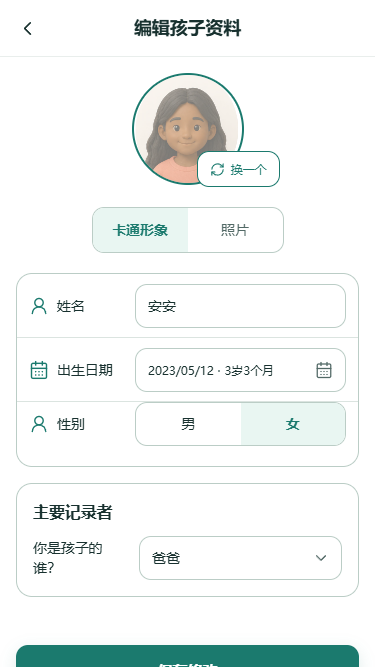
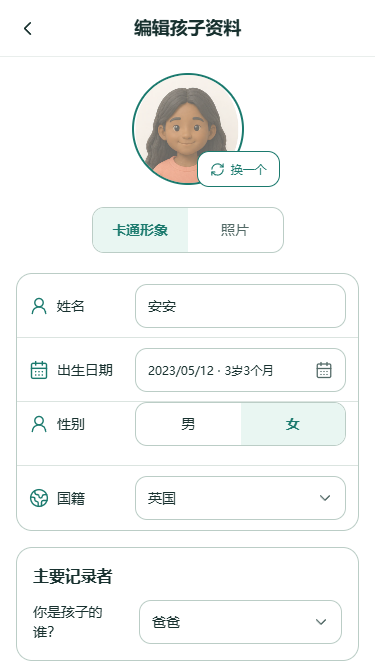
feat: add child nationality selection

diff --git a/src/pages/Family/EditFamilyMemberPage.tsx b/src/pages/Family/EditFamilyMemberPage.tsx
@@ -1,5 +1,5 @@
 import { FormEvent, useEffect, useMemo, useRef, useState } from 'react'
-import { CalendarDays, ChevronDown, UserRound } from 'lucide-react'
+import { CalendarDays, ChevronDown, Globe2, UserRound } from 'lucide-react'
 import { useBlocker, useNavigate, useParams } from 'react-router-dom'
 import { Button, WebPageHeader } from '../../components/common'
 import { FamilyAvatarEditor, type FamilyAvatarMode } from '../../components/family/FamilyAvatarEditor'
@@ -12,6 +12,7 @@ import type { ChildRecorderRelationship, FamilyMemberApiDto, ProfileGender } fro
 import { childBirthdayErrorMessage, formatChildProfileAge, getChildBirthdayBounds, isChildProfileMember, validateChildBirthday } from '../../utils/childProfile'
 import { createClayAvatarConfig, parseClayAvatar, remapClayAvatarRole, serializeClayAvatar, type ClayAvatarConfig } from '../../utils/clayAvatar'
 import { parseVirtualAvatarId } from '../../utils/virtualAvatar'
+import { NATIONALITY_CODES } from '../../../shared/nationality-policy.mjs'
 
 type ChildGender = Extract<ProfileGender, 'male' | 'female'> | ''
 type SaveState = 'idle' | 'saving' | 'saved'
@@ -22,6 +23,7 @@ interface ChildEditorDraft {
   birthday: string
   gender: ChildGender
   name: string
+  nationality: string
   primaryRecorderRelationship: ChildRecorderRelationship | ''
   photoAvatar: string
 }
@@ -37,6 +39,11 @@ const recorderOptions = [
   ['other', '其他']
 ] as const satisfies readonly (readonly [ChildRecorderRelationship, string])[]
 const recorderValues = new Set<ChildRecorderRelationship>(recorderOptions.map(([value]) => value))
+const nationalityDisplayNames = new Intl.DisplayNames(['zh-CN'], { type: 'region' })
+const nationalityOptions = ['CN', ...NATIONALITY_CODES.filter((code) => code !== 'CN')]
+  .map((code) => [code, nationalityDisplayNames.of(code) ?? code] as const)
+  .concat([['OTHER', '其他'] as const])
+const nationalityValues = new Set(nationalityOptions.map(([value]) => value))
 const rowClass = 'grid min-h-[64px] grid-cols-[94px_minmax(0,1fr)] items-center gap-3 border-b border-border px-3 last:border-b-0 sm:grid-cols-[104px_minmax(0,1fr)] sm:px-4'
 const controlClass = 'h-11 min-w-0 w-full rounded-control border border-border-calm bg-surface px-3 text-sm text-heading outline-none transition focus:border-primary focus:ring-2 focus:ring-primary/15 disabled:bg-surface-muted disabled:text-text-secondary'
 
@@ -59,6 +66,7 @@ function makeDraft(member: FamilyMemberApiDto): ChildEditorDraft {
     birthday,
     gender,
     name: member.name,
+    nationality: member.nationality && nationalityValues.has(member.nationality) ? member.nationality : '',
     primaryRecorderRelationship: member.primaryRecorderRelationship && recorderValues.has(member.primaryRecorderRelationship) ? member.primaryRecorderRelationship : '',
     photoAvatar: isPhoto ? avatar : ''
   }
@@ -73,6 +81,7 @@ function draftFingerprint(draft: ChildEditorDraft) {
 
 function savedDataMatches(member: FamilyMemberApiDto, draft: ChildEditorDraft) {
   return member.relationship === 'child'
+    && (member.nationality ?? '') === draft.nationality
     && (member.primaryRecorderRelationship ?? '') === draft.primaryRecorderRelationship
 }
 
@@ -198,6 +207,7 @@ export function EditFamilyMemberPage() {
         name: draft.name.trim(),
         relationship: 'child',
         birthday: draft.birthday || null,
+        nationality: draft.nationality || null,
         gender: draft.gender || null,
         avatar: draft.avatarMode === 'photo' ? draft.photoAvatar : serializeClayAvatar(previewConfig),
         primaryRecorderRelationship: draft.primaryRecorderRelationship || null
@@ -296,6 +306,22 @@ export function EditFamilyMemberPage() {
               >{label}</button>)}
             </div>
           </fieldset>
+          <label className={rowClass}>
+            <span className="flex items-center gap-2 text-sm font-medium"><Globe2 aria-hidden="true" className="shrink-0 text-primary" size={20} strokeWidth={1.7} />国籍</span>
+            <span className="relative">
+              <select
+                aria-label="国籍"
+                className={`${controlClass} appearance-none pr-10`}
+                disabled={locked}
+                value={draft.nationality}
+                onChange={(event) => updateDraft({ nationality: event.target.value })}
+              >
+                <option value="">请选择国籍</option>
+                {nationalityOptions.map(([value, label]) => <option key={value} value={value}>{label}</option>)}
+              </select>
+              <ChevronDown aria-hidden="true" className="pointer-events-none absolute right-3 top-1/2 -translate-y-1/2 text-text-secondary" size={18} strokeWidth={1.7} />
+            </span>
+          </label>
         </section>
 
         <section className="mt-4 rounded-card border border-border-calm bg-surface p-4" aria-labelledby="recorder-heading">

diff --git a/tests/child-profile/child-profile.spec.ts b/tests/child-profile/child-profile.spec.ts
@@ -41,6 +41,7 @@ test('从已加载家人列表进入编辑页时不等待后台成员刷新', as
       relationship: 'child',
       gender: 'female',
       birthday: '2026-09-04',
+      nationality: 'CN',
       avatar: 'clay:v1:baby-girl:east-asian',
       caregivers: ['mother'],
       primaryRecorderRelationship: 'mother',
@@ -68,6 +69,7 @@ test('从已加载家人列表进入编辑页时不等待后台成员刷新', as
     await expect(page.locator('input[maxlength="50"]')).toHaveValue('加载测试宝宝', { timeout: 800 })
     expect(Date.now() - startedAt).toBeLessThan(1_000)
     await expect(page.getByLabel('你是孩子的谁？')).toHaveValue('mother')
+    await expect(page.getByLabel('国籍')).toHaveValue('CN')
     await expect(page.getByText('主要照顾者')).toHaveCount(0)
     await expect(page.getByRole('textbox', { name: '其他亲属' })).toHaveCount(0)
     await expect(page.getByRole('textbox', { name: '其他照看者' })).toHaveCount(0)
@@ -102,12 +104,13 @@ test('孩子资料完整交互、持久化、响应式和删除失败恢复', as
   await expect(page.getByRole('button', { name: '保存修改' })).toBeDisabled()
   await expect.poll(() => page.evaluate(() => document.documentElement.scrollWidth <= window.innerWidth + 1)).toBeTruthy()
   const profileRows = page.locator('section[aria-label="孩子基本资料"] > label, section[aria-label="孩子基本资料"] > div, section[aria-label="孩子基本资料"] > fieldset')
-  await expect(profileRows).toHaveCount(3)
-  for (let index = 0; index < 3; index += 1) {
+  await expect(profileRows).toHaveCount(4)
+  for (let index = 0; index < 4; index += 1) {
     expect((await profileRows.nth(index).boundingBox())?.height).toBeLessThanOrEqual(64)
   }
   await expect(page.getByRole('textbox', { name: '其他亲属' })).toHaveCount(0)
   await expect(page.getByLabel('你是孩子的谁？')).toHaveValue('mother')
+  await expect(page.getByLabel('国籍')).toHaveValue('CN')
   await expect(page.getByText('主要照顾者')).toHaveCount(0)
   await expect(page.getByRole('textbox', { name: '其他照看者' })).toHaveCount(0)
 
@@ -124,6 +127,7 @@ test('孩子资料完整交互、持久化、响应式和删除失败恢复', as
 
   await page.getByRole('button', { name: '换一个' }).click()
   await page.getByRole('button', { name: '女' }).click()
+  await page.getByLabel('国籍').selectOption('GB')
   await page.getByLabel('你是孩子的谁？').selectOption('father')
 
   await page.getByRole('button', { name: '照片' }).click()
@@ -151,6 +155,7 @@ test('孩子资料完整交互、持久化、响应式和删除失败恢复', as
   expect(persistedResponse.ok(), await persistedResponse.text()).toBeTruthy()
   const persisted = await persistedResponse.json()
   expect(persisted.caregivers).toEqual(['father', 'mother'])
+  expect(persisted.nationality).toBe('GB')
   expect(persisted.primaryRecorderRelationship).toBe('father')
   expect(persisted.otherRelative).toBe('姨妈')
   expect(persisted.otherCaregiver).toBeNull()
@@ -160,6 +165,7 @@ test('孩子资料完整交互、持久化、响应式和删除失败恢复', as
   await expect(page.getByRole('textbox', { name: '其他亲属' })).toHaveCount(0)
   await expect(page.getByRole('textbox', { name: '其他照看者' })).toHaveCount(0)
   await expect(page.getByLabel('你是孩子的谁？')).toHaveValue('father')
+  await expect(page.getByLabel('国籍')).toHaveValue('GB')
   await expect(page.getByText('主要照顾者')).toHaveCount(0)
   await expect.poll(() => page.evaluate(() => document.documentElement.scrollWidth <= window.innerWidth + 1)).toBeTruthy()
   await page.getByRole('button', { name: '卡通形象' }).click()

diff --git a/src/pages/Family/EditFamilyMemberPage.contract.test.ts b/src/pages/Family/EditFamilyMemberPage.contract.test.ts
@@ -11,6 +11,9 @@ test('孩子编辑页只呈现冻结的信息架构', () => {
   assert.match(pageSource, /姓名/)
   assert.match(pageSource, /出生日期/)
   assert.match(pageSource, /性别/)
+  assert.match(pageSource, /国籍/)
+  assert.match(pageSource, /请选择国籍/)
+  assert.match(pageSource, /NATIONALITY_CODES/)
   assert.match(pageSource, /主要记录者/)
   assert.match(pageSource, /你是孩子的谁？/)
   assert.match(pageSource, /请选择关系/)
@@ -30,6 +33,8 @@ test('孩子编辑页使用真实数据、统一草稿和服务端回读确认',
   assert.match(pageSource, /isChildProfileMember/)
   assert.match(pageSource, /relationship: 'child'/)
   assert.match(pageSource, /member\.primaryRecorderRelationship/)
+  assert.match(pageSource, /member\.nationality/)
+  assert.match(pageSource, /nationality: draft\.nationality \|\| null/)
   assert.match(pageSource, /primaryRecorderRelationship: draft\.primaryRecorderRelationship \|\| null/)
   assert.equal(pageSource.includes('draft.caregivers'), false)
   assert.equal(pageSource.includes('draft.otherRelative'), false)

diff --git a/src/services/familyMembers.ts b/src/services/familyMembers.ts
@@ -62,7 +62,7 @@ export const familyMemberService = {
   update(
     memberId: string,
     input: Partial<Pick<FamilyMemberApiDto,
-      | 'name' | 'relationship' | 'birthday' | 'gender' | 'avatar'
+      | 'name' | 'relationship' | 'birthday' | 'nationality' | 'gender' | 'avatar'
       | 'heightCm' | 'weightKg' | 'bloodType'
       | 'waistCircumferenceCm' | 'bodyFatPercentage' | 'headCircumferenceCm' | 'rhBloodType'
       | 'caregivers' | 'primaryRecorderRelationship' | 'otherRelative' | 'otherCaregiver'

diff --git a/src/types/index.ts b/src/types/index.ts
@@ -62,6 +62,7 @@ export interface FamilyMemberApiDto {
   relationship: ApiMemberRelationship
   gender: ApiMemberGender
   birthday: string | null
+  nationality?: string | null
   avatar: string | null
   heightCm?: number | null
   weightKg?: number | null
